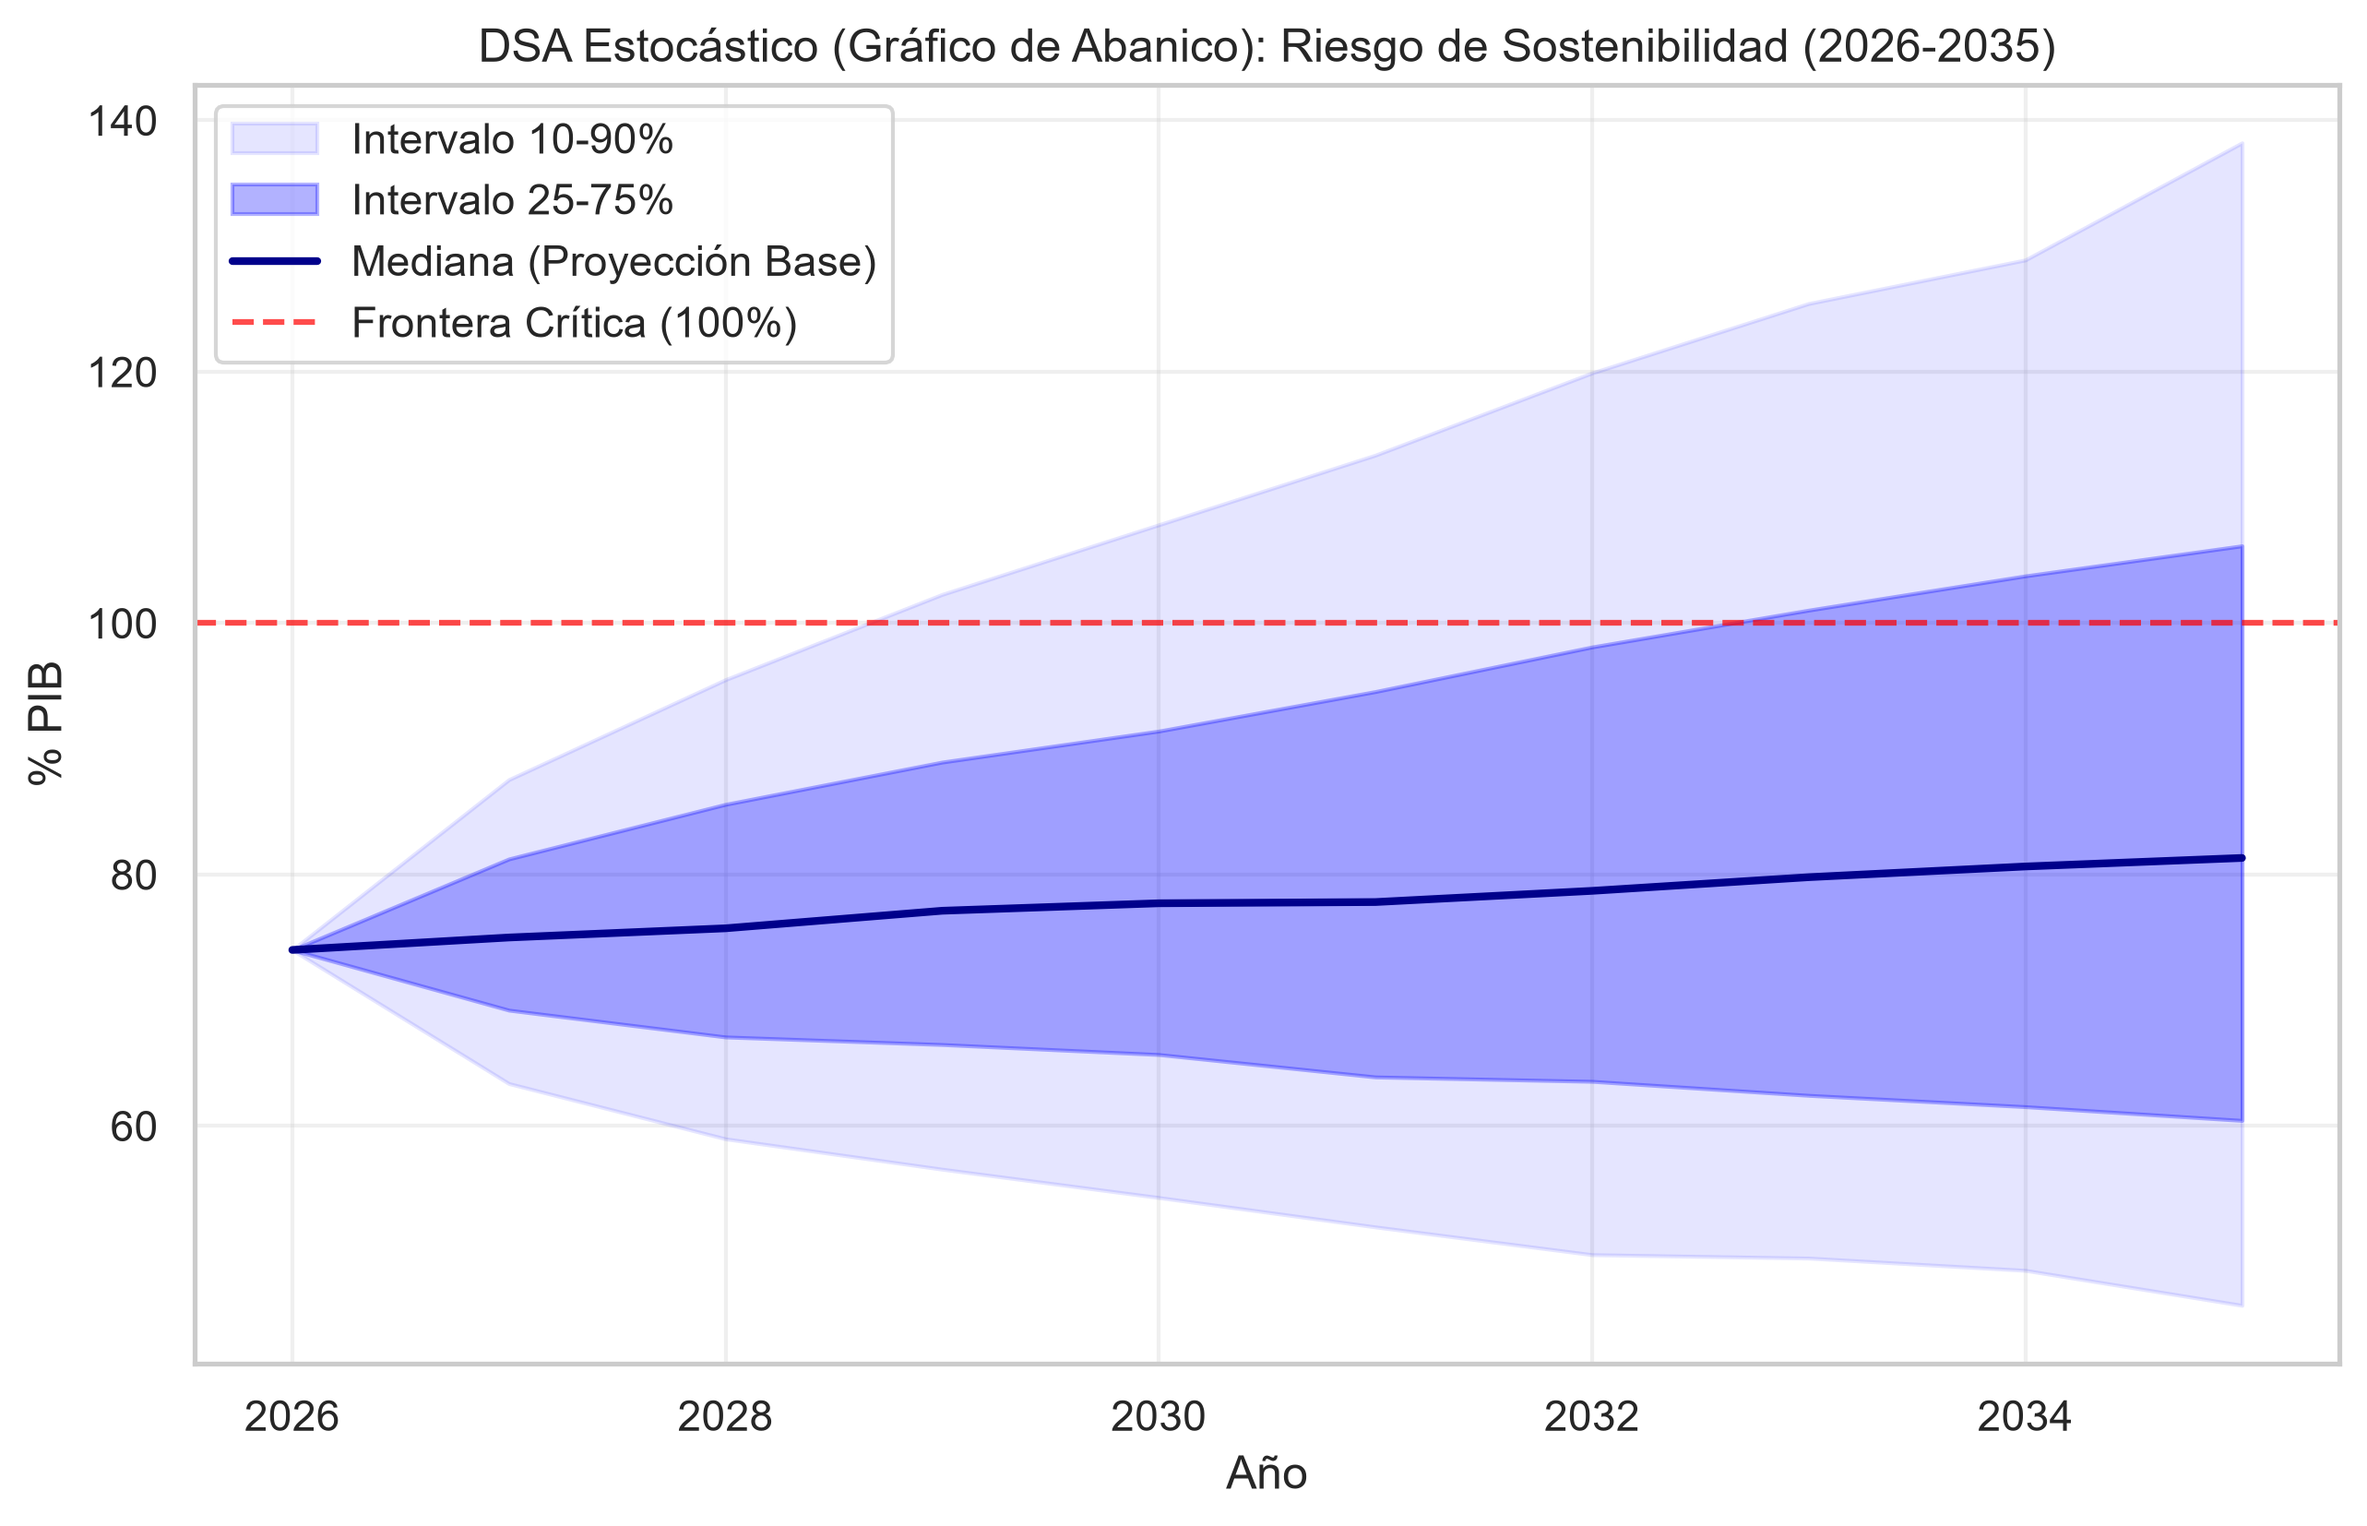
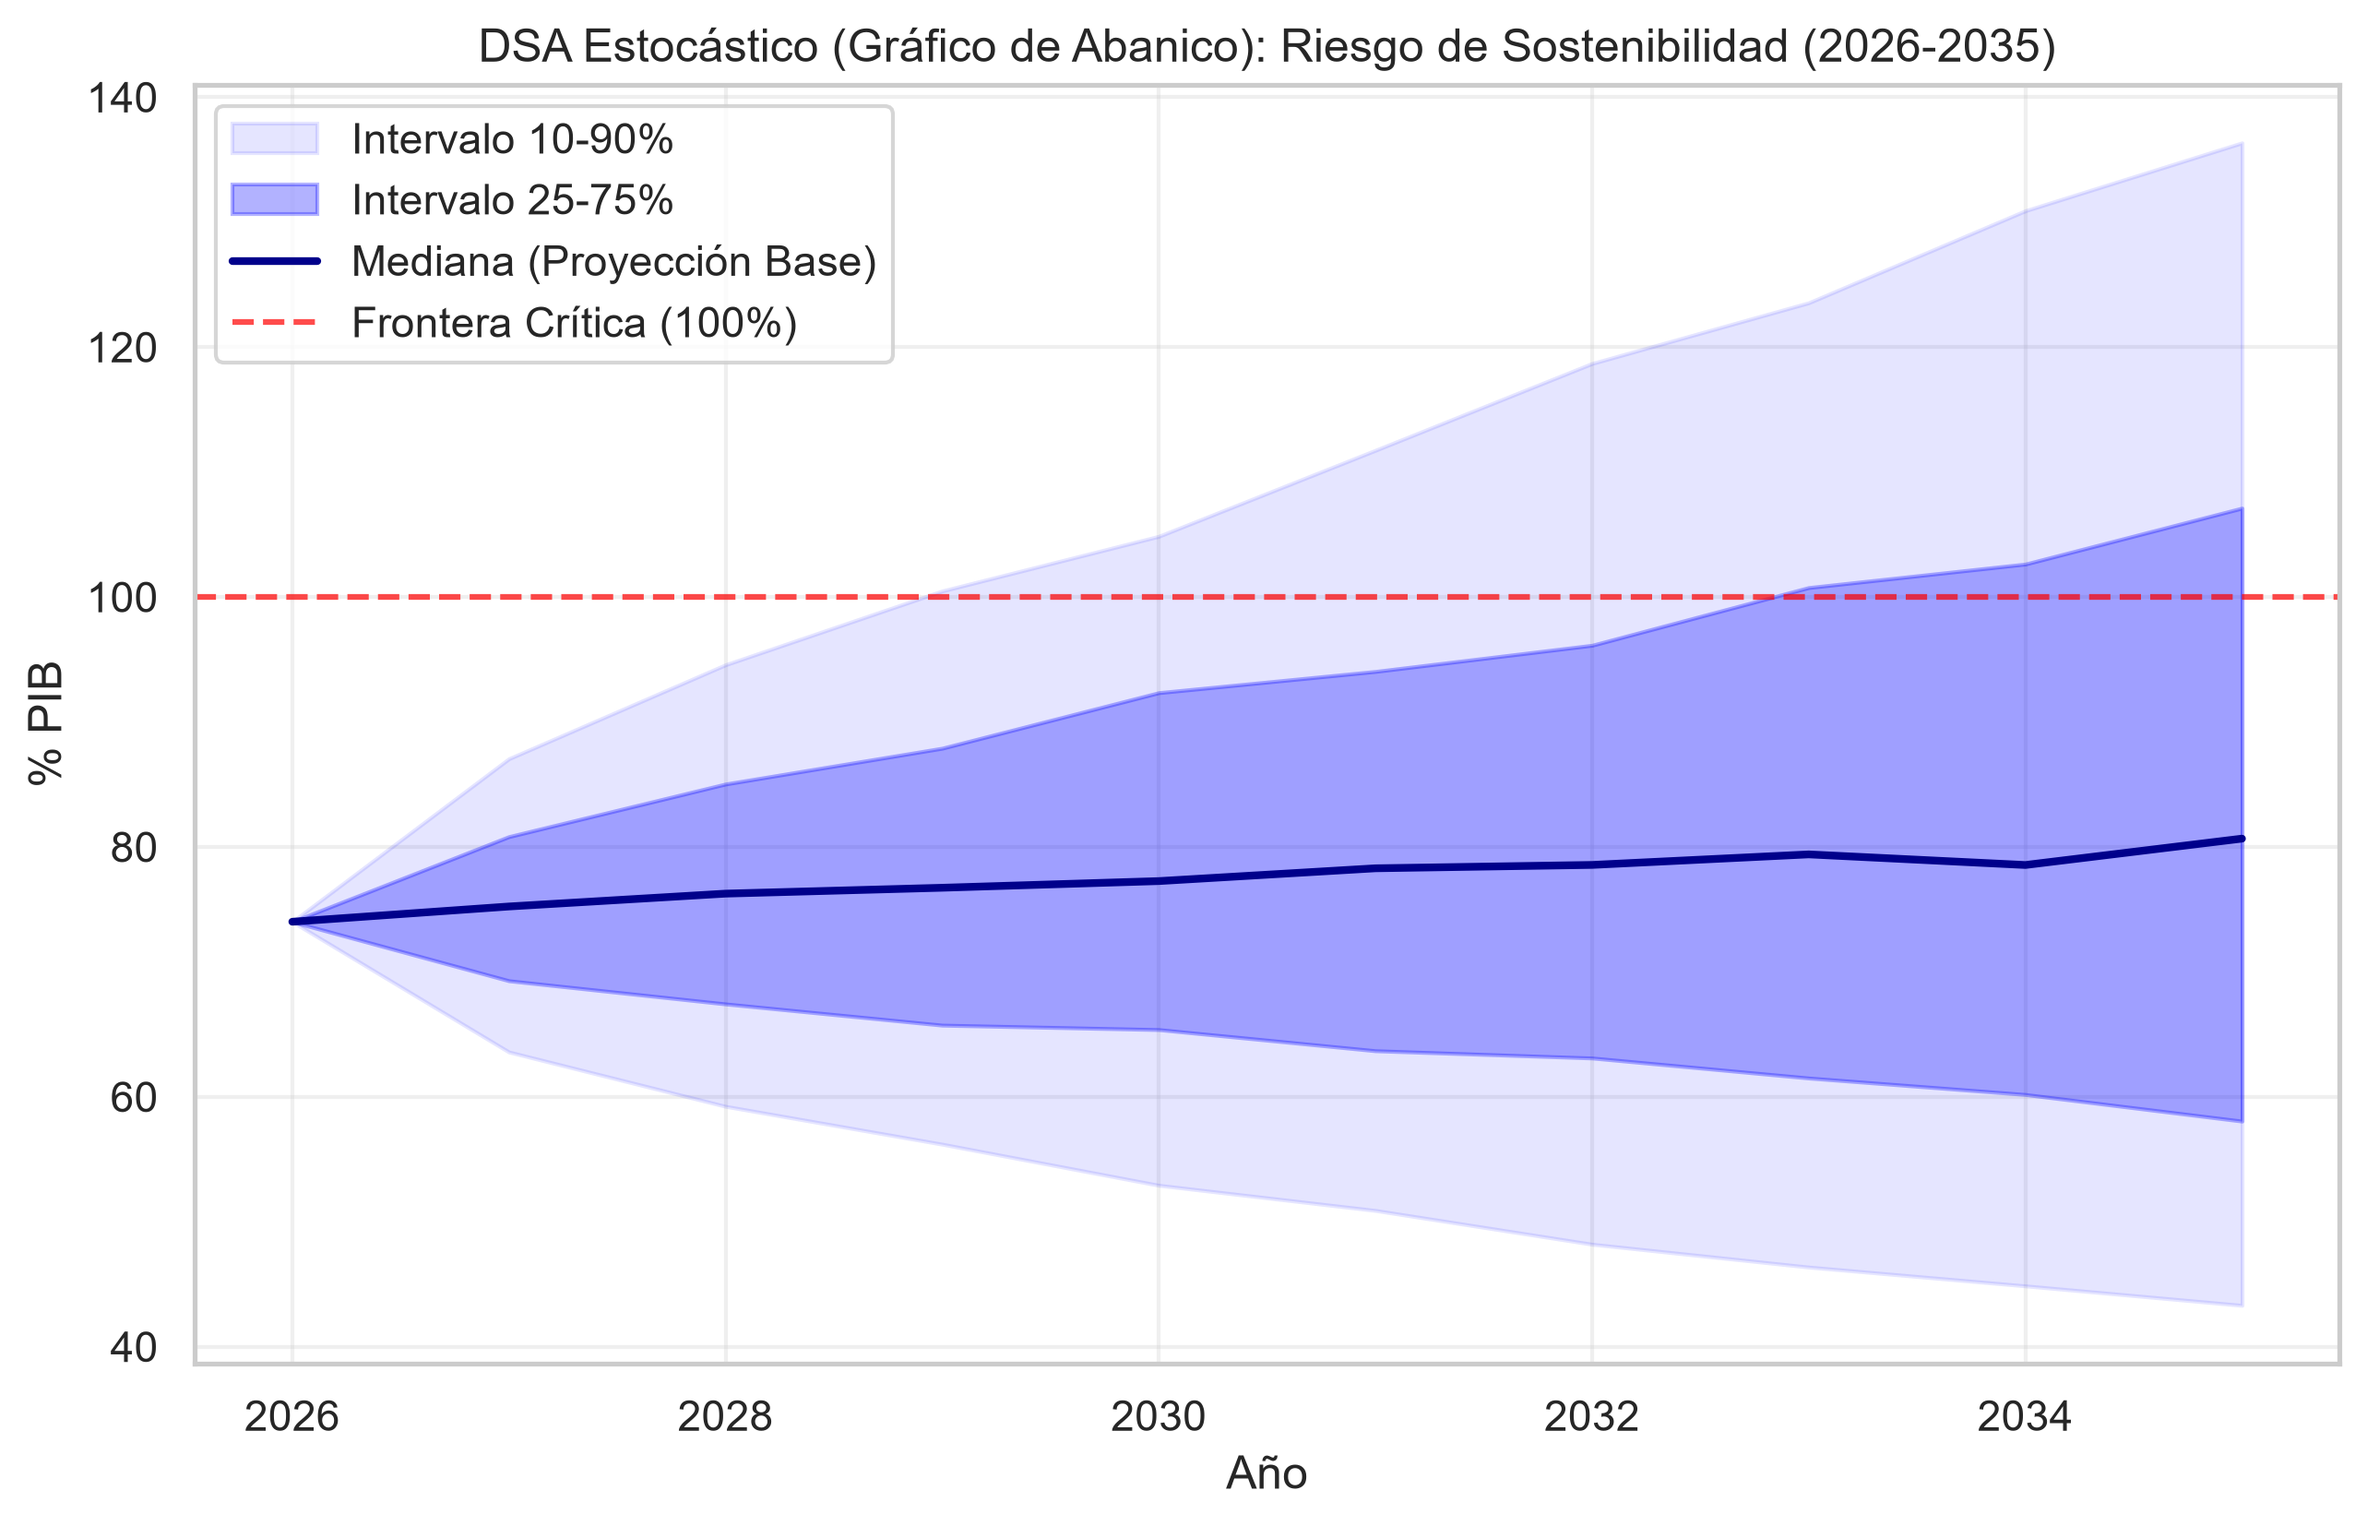
Recalibrar nu del DSA estocastico con TCRM real (metodo de momentos)
- fase17_calibracion_nu_dsa.py: recalcula los grados de libertad de la
  t de Student multivariada del DSA sobre los shocks reales de
  resultado primario y TCRM (antes fallback). El MLE conjunto
  (loc/scale/nu) da nu=1.54 y nu=2.61 -por debajo de 2, varianza
  infinita-, solucion de esquina arrastrada por trimestres extremos
  genuinos (devaluacion 2016, crisis 2018, ajuste 2023-2024), no un
  error de datos. Se adopta en su lugar el metodo de momentos
  (curtosis en exceso), mas robusto a esa patologia: nu=4.24 y
  nu=5.32, promedio nu=4.8 (antes 5.1).
- fase6_sostenibilidad_deuda.py: DSA_STUDENT_T_NU actualizado a 4.8,
  con la justificacion completa en el comentario del modulo.
- Re-ejecutados fase6, fase7, fase10, fase14 (DSA determinista,
  estocastico, comparacion GARCH-parcial, DCC-GARCH, tail dependence).
  Resultado: probabilidad de superar 100% PIB en 2035 pasa de 30.4% a
  31.2% (Referencia) -cambio menor, sin reversion-, confirmando que la
  recalibracion evito el ensanchamiento inestable que hubiera
  producido el nu=1.54 del MLE conjunto.

Con esto se completa el re-run del pipeline downstream (Etapa 71):
fases 1,2,3,3b,4,5,6,7,10,12,13,14 corridas sobre datos reales.

diff --git a/codigo/modelos/fase17_calibracion_nu_dsa.py b/codigo/modelos/fase17_calibracion_nu_dsa.py
@@ -1,0 +1,101 @@
+"""
+fase17_calibracion_nu_dsa.py
+==============================
+Recalibra los grados de libertad (nu) de la distribución t de Student
+multivariada del DSA estocástico (fase6_sostenibilidad_deuda.py,
+DSA_STUDENT_T_NU) sobre los shocks históricos reales de resultado primario
+y tipo de cambio real, ahora que TCRM ya no es la serie de contingencia
+(ver actualizar_tcrm_embi_real.py).
+
+El ajuste original (nu=5.1) se estimó por máxima verosimilitud conjunta de
+los tres parámetros de la t (loc, scale, nu) sobre el TCRM de contingencia.
+Repetir ese mismo ajuste (scipy.stats.t.fit) sobre el TCRM real da nu=1.54
+para el shock de resultado primario y nu=2.61 para el de tipo de cambio
+real -por debajo de 2, varianza teóricamente infinita-, arrastrado por un
+puñado de trimestres genuinamente extremos (devaluación de 2016, crisis de
+2018, ajuste fiscal y cambiario de 2023-2024) que no son errores de datos,
+pero sí generan un patrón de inestabilidad conocido del MLE conjunto sin
+restringir en muestras chicas: la superficie de verosimilitud es casi plana
+para nu bajo, y un par de observaciones extremas aisladas pueden arrastrar
+la estimación hacia una solución de esquina que "explica" esos puntos vía
+cola infinita en lugar de reflejar la forma de la distribución en su
+conjunto.
+
+Se adopta en su lugar el estimador por método de momentos (ajuste por
+curtosis en exceso), más robusto frente a esa patología porque no depende
+de la verosimilitud conjunta de los tres parámetros: para una t de Student,
+la curtosis en exceso poblacional es 6/(nu-4) (nu>4), de donde
+nu = 4 + 6/curtosis_exceso_muestral. Es el mismo estadístico (curtosis en
+exceso) que ya cita el Capítulo 7 de la tesis como evidencia de colas
+pesadas, aplicado ahora como estimador y no solo como diagnóstico.
+"""
+
+import pandas as pd
+import numpy as np
+import os
+import pathlib
+from scipy.stats import t as t_dist
+
+BASE_DIR = pathlib.Path(__file__).parent.parent.parent
+DATOS = BASE_DIR / "datos"
+RESULTADOS = BASE_DIR / "resultados" / "tablas"
+
+
+def nu_mle_conjunto(serie):
+    """MLE conjunto (loc, scale, nu) vía scipy.stats.t.fit -método original-."""
+    nu, loc, scale = t_dist.fit(serie)
+    return nu
+
+
+def nu_metodo_momentos(serie):
+    """nu = 4 + 6/curtosis_exceso, válido para curtosis_exceso > 0 (nu>4)."""
+    k = serie.kurtosis()
+    if k <= 0:
+        return np.inf
+    return 4 + 6 / k
+
+
+def main():
+    print("=" * 78)
+    print(" FASE 17: RECALIBRACIÓN DE NU (COLAS GORDAS, DSA ESTOCÁSTICO)")
+    print("=" * 78)
+
+    df = pd.read_csv(DATOS / "dataset_consolidado_real.csv", parse_dates=["Date"], index_col="Date")
+    pb_shock = df["pb_pib"].diff().dropna()
+    delta_e_shock = (df["TCRM"].pct_change() * 100).dropna()
+
+    filas = []
+    for nombre, serie in [("resultado_primario (dpb)", pb_shock), ("tipo_cambio_real (TCRM, %var)", delta_e_shock)]:
+        k = serie.kurtosis()
+        nu_mle = nu_mle_conjunto(serie)
+        nu_mm = nu_metodo_momentos(serie)
+        print(f"\n{nombre}: n={len(serie)}  curtosis_exceso={k:.2f}")
+        print(f"  nu (MLE conjunto, loc/scale/nu)  = {nu_mle:.2f}")
+        print(f"  nu (método de momentos, curtosis) = {nu_mm:.2f}")
+        filas.append({
+            "Variable": nombre,
+            "n": len(serie),
+            "Curtosis_exceso": round(k, 2),
+            "nu_MLE_conjunto": round(nu_mle, 2),
+            "nu_metodo_momentos": round(nu_mm, 2),
+        })
+
+    tabla = pd.DataFrame(filas)
+    nu_final = round(tabla["nu_metodo_momentos"].mean(), 1)
+
+    print("\n" + "=" * 78)
+    print(f" NU FINAL ADOPTADO (promedio, método de momentos): {nu_final}")
+    print(" (Compartido entre las tres variables del DSA -pb, g, delta_e-, ")
+    print("  mismo criterio de conservadurismo que la calibración original, ")
+    print("  que también promediaba y compartía un nu único entre las tres.)")
+    print("=" * 78)
+
+    os.makedirs(RESULTADOS, exist_ok=True)
+    tabla.to_csv(RESULTADOS / "fase17_calibracion_nu_dsa.csv", index=False)
+    with open(RESULTADOS / "fase17_nu_final.txt", "w", encoding="utf-8") as f:
+        f.write(str(nu_final))
+    print(f"\n[OK] Resultados guardados en 'resultados/tablas/fase17_calibracion_nu_dsa.csv' y 'fase17_nu_final.txt'")
+
+
+if __name__ == "__main__":
+    main()

diff --git a/codigo/modelos/fase6_sostenibilidad_deuda.py b/codigo/modelos/fase6_sostenibilidad_deuda.py
@@ -19,15 +19,24 @@ from scipy.stats import multivariate_t
 import seaborn as sns
 sns.set_theme(style="whitegrid")
 
-# Grados de libertad de la t de Student multivariante, estimados empíricamente
-# (MLE, scipy.stats.t.fit) sobre los shocks históricos reales de resultado
-# primario (nu=5.26, curtosis en exceso=23.8) y tipo de cambio real
-# (nu=4.95, curtosis en exceso=14.4) -las dos series con evidencia robusta de
-# colas gordas-. El shock de crecimiento del PIB real no exhibe la misma
-# propiedad (curtosis en exceso=-0.27, aproximadamente gaussiano) y se
-# mantiene, por conservadurismo, bajo el mismo parámetro compartido de la
-# t multivariada (ver script de estimación en el codebook del proyecto).
-DSA_STUDENT_T_NU = 5.1
+# Grados de libertad de la t de Student multivariante, estimados por método
+# de momentos (nu = 4 + 6/curtosis_exceso) sobre los shocks históricos reales
+# de resultado primario (curtosis en exceso=25.3 -> nu=4.24) y tipo de cambio
+# real (curtosis en exceso=4.5 -> nu=5.32) -las dos series con evidencia
+# robusta de colas gordas-, promediados y compartidos con el shock de
+# crecimiento del PIB real (que no exhibe la misma propiedad, curtosis en
+# exceso=-0.27, aproximadamente gaussiano), por el mismo criterio de
+# conservadurismo del ajuste original. Se prefiere el método de momentos al
+# MLE conjunto de los tres parámetros (loc, scale, nu): sobre la serie real
+# de TCRM, el MLE conjunto da nu=1.54 (resultado primario) y nu=2.61 (tipo
+# de cambio real) -por debajo de 2, varianza teóricamente infinita-, una
+# solución de esquina arrastrada por un puñado de trimestres genuinamente
+# extremos (devaluación de 2016, crisis de 2018, ajuste de 2023-2024), no un
+# error de datos, pero sí un patrón de inestabilidad conocido del MLE
+# conjunto sin restringir en muestras chicas con observaciones extremas
+# aisladas. Ver codigo/modelos/fase17_calibracion_nu_dsa.py para el
+# procedimiento completo y ambos estimadores.
+DSA_STUDENT_T_NU = 4.8
 
 # Parámetros estructurales y de escenario, expuestos a nivel de módulo para que
 # scripts complementarios (p.ej. fase7_diagnosticos_robustez.py) los reutilicen por
